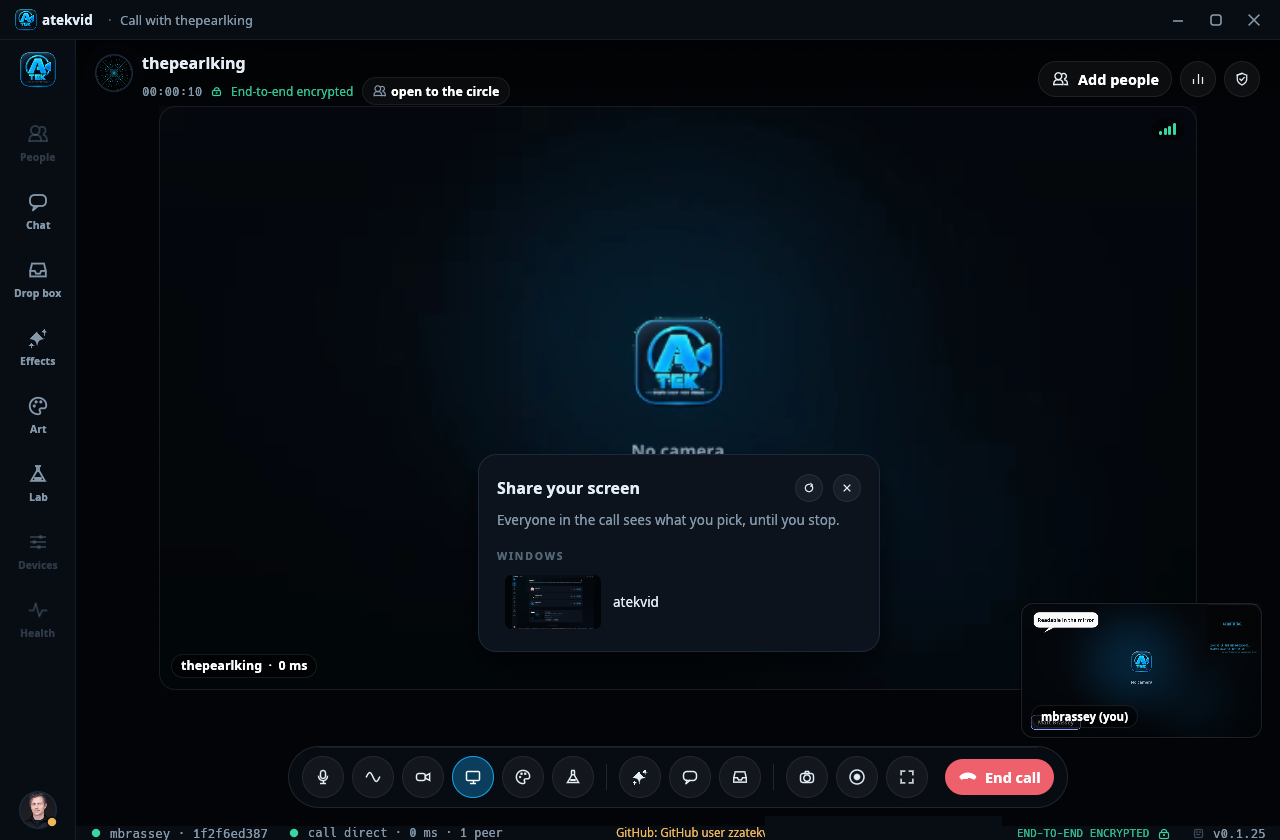
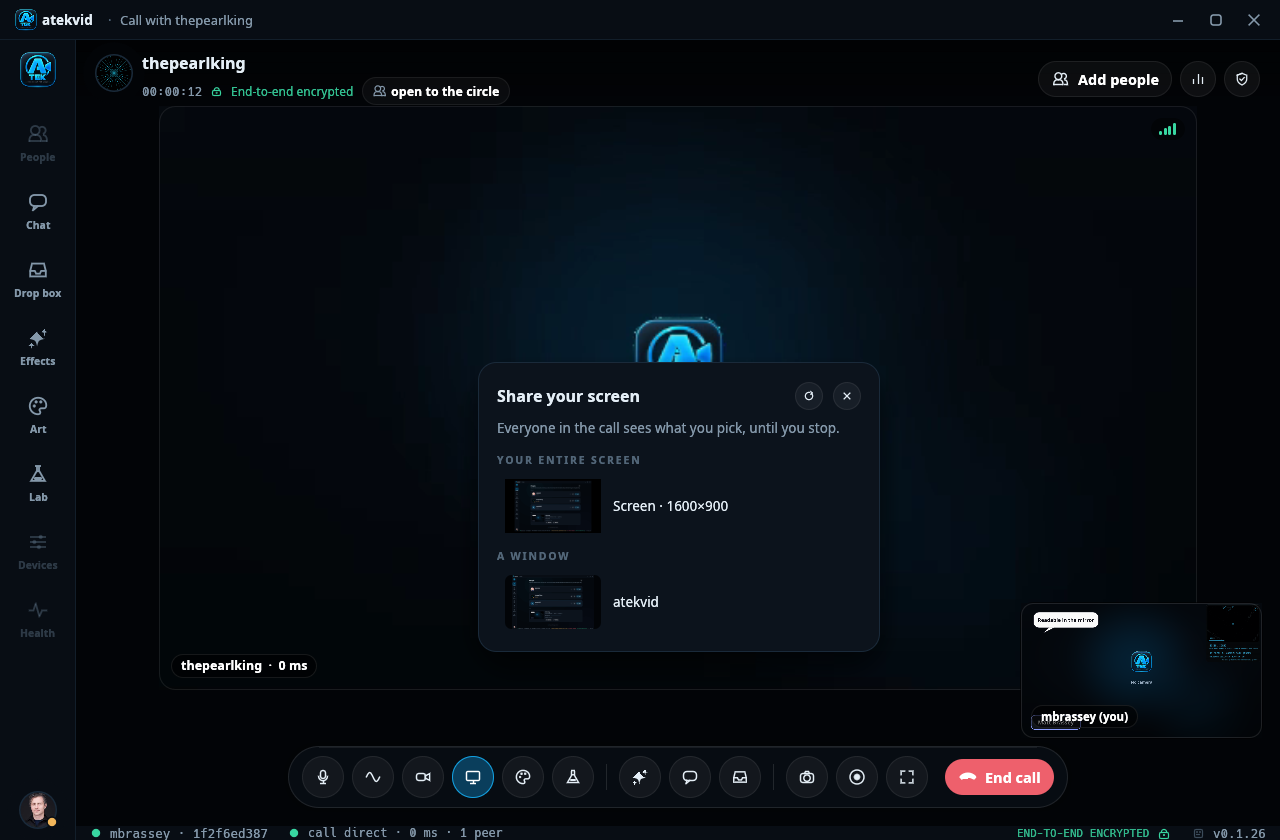
README for 0.1.26: the picker's screen and window sections, private calls kept out of sight, new screenshots
- Screen sharing: the entire screen and a single window each have their own
  section in the picker, with a picture of each on X11 and the desktop's own
  dialog on Wayland.
- Calls in the circle: a call is open only while everyone on it lets it be,
  and a private call is told only to the people in it and those they invite.
- Ringtones take AAC, Apple Lossless and more Ogg and WebM files; the
  installer's autostart is made once and --autostart brings it back;
  releases are built from a tag in Docker on Ubuntu 22.04.
- New screenshots of the share picker and of Happening now.

Changed region(s): [[0.375, 0.4333, 0.6562, 0.681], [0.4688, 0.9905, 0.5938, 1.0], [0.9375, 0.7429, 0.9688, 0.7738]]

diff --git a/README.md b/README.md
@@ -45,7 +45,7 @@ openSUSE, Void and Alpine (x86_64). The script:
 Prefer not to pipe from the network? Download the release archive, check the
 `.sig` and `.sha256`, extract, and run `./install.sh` from it. `install.sh
 --help` lists the options (`--prefix`, `--no-pin`, `--no-autostart`,
-`--uninstall`, …).
+`--autostart`, `--uninstall`, …).
 
 **Updating** happens by itself: the app checks these releases shortly after
 launch and every six hours, verifies the signature, installs the new binary
@@ -78,24 +78,24 @@ by hand.
 - **Calls you can see, and walk into.** When people in your circle are on a
   call, you know: the status bar says who, the People list shows it under
   *Happening now* and says who each person is with, and the tray menu lists
-  it. *Join* walks you straight in, no invitation needed. Anyone on the call
-  can make it private from the call's header; a private call still shows who
-  is in it, but nobody can walk in. People who arrive at the same moment
-  find each other on their own, so a call of four always ends up with
-  everyone connected to everyone. While a call is open, the people in it
-  show as small live pictures under *Happening now* (and when you rest on
-  the status bar's note), refreshed every couple of seconds, with no sound
-  and nothing shared but their camera; everyone in the call sees who is
-  looking in.
-- **Screen sharing.** Share a screen or a single window with everyone in the
-  call; several people can share at once. On Wayland the desktop's own picker
-  chooses what is shared (through the ScreenCast portal and PipeWire); on X11
-  any monitor or window is captured directly, pointer included, and the
-  picker shows a small picture of each screen and window so you see what you
-  are about to share. Shared
-  screens take the stage and the cameras move to a strip beside them. Each
-  share is its own end-to-end encrypted stream, up to 1600 px wide, tuned for
-  legible text.
+  it. *Join* walks you straight in, no invitation needed. A call is open to
+  the circle only while everyone on it lets it be: anyone can make it private
+  from the call's header, and a private call stays out of sight, told only to
+  the people in it and those they invite, and nobody walks in uninvited.
+  People who arrive at the same moment find each other on their own, so a
+  call of four always ends up with everyone connected to everyone. While a
+  call is open, the people in it show as small live pictures under
+  *Happening now* (and when you rest on the status bar's note), refreshed
+  every couple of seconds, with no sound and nothing shared but their camera;
+  everyone in the call sees who is looking in.
+- **Screen sharing.** Share your entire screen or a single window with
+  everyone in the call; several people can share at once. The picker has a
+  section for each: on X11 it lists every monitor and window with a small
+  picture of it, captured directly, pointer included; on Wayland *Choose a
+  screen…* and *Choose a window…* open the desktop's own dialog (the
+  ScreenCast portal, with PipeWire). Shared screens take the stage and the
+  cameras move to a strip beside them. Each share is its own end-to-end
+  encrypted stream, up to 1600 px wide, tuned for legible text.
 - **Art board.** Draw, paint and collage together, live. Twelve brushes
   (pen, marker, crayon, spray, rainbow, neon, and heart, star, sparkle,
   snowflake, confetti and bubble stamps) and an eraser; shapes with a fill;
@@ -153,7 +153,8 @@ by hand.
   the opening of Mozart's *Eine kleine Nachtmusik*, hip hop, trap, drum and
   bass, techno, EDM, dubstep, synthwave, chiptune and an alien theremin.
   Give everyone the same one or each person their own, or add your own
-  music (MP3, M4A, FLAC, OGG or WAV) from the file chooser or by dropping it
+  music (MP3, M4A, AAC, ALAC, FLAC, Ogg Vorbis, Opus or WAV) from the file
+  chooser or by dropping it
   on the Devices screen. A robot voice, made by atekvid too, says who is
   calling: after every third ring of a short ringtone, or over a long one
   while the music dips. Every choice has a listen button.
@@ -304,7 +305,8 @@ and Voice out put your voice through a rack, here the Robot voice.
 
 **Happening now.** A call between two people in the circle, with small live
 pictures of them and a way in from the People list, the status bar and the
-tray.
+tray. *Join* shows who you are joining until they take you in, and can be
+cancelled.
 
 <p align="center"><img src="docs/calls.png" width="820" alt="A call in the circle, ready to join"></p>
 
@@ -313,9 +315,9 @@ grip to resize it, to see your effects up close.
 
 <p align="center"><img src="docs/self-view.png" width="820" alt="A bigger self view in a call"></p>
 
-**Share a screen or a window.** The call bar's screen button opens the
-picker, with a small picture of each screen and window (on Wayland, the
-desktop's own dialog).
+**Share a screen or a window.** The call bar's screen button (or **X**) opens
+the picker: your entire screen in one section, a single window in the other,
+each with a small picture (on Wayland, the desktop's own dialog picks).
 
 <p align="center"><img src="docs/share-picker.png" width="820" alt="The share picker"></p>
 
@@ -457,14 +459,16 @@ or Wayland. Hiding to the tray destroys the window and recreates it on demand,
 because Wayland allows neither hiding nor restoring a window on request; the
 application state lives on regardless. The tray item speaks the
 StatusNotifierItem protocol over D-Bus (pure Rust, `ksni`); notifications use
-`org.freedesktop.Notifications`. The installer adds a `.desktop` entry and a
-login autostart entry (`atekvid --hidden`), and puts the `atekvid-screencast`
-helper next to the app.
+`org.freedesktop.Notifications`. The installer adds a `.desktop` entry and,
+once, a login autostart entry (`atekvid --hidden`): turned off in the
+desktop's startup settings it stays off, `--no-autostart` removes it and
+`--autostart` brings it back. It puts the `atekvid-screencast` helper next to
+the app.
 
 ### Releases and updates
 
-Releases are built on Ubuntu 22.04 by GitHub Actions in the private source
-repository and published here. The archive holds the app, the
+Releases are built from a tag of the private source repository, in Docker on
+Ubuntu 22.04 (glibc 2.35), and published here. The archive holds the app, the
 `atekvid-screencast` helper, the installer and the packaging files. Each archive is signed with the atekvid release
 key using OpenSSH signatures (`ssh-keygen -Y sign`, namespace
 `atekvid-release`); the public half is compiled into the app and written into
@@ -605,7 +609,7 @@ thepearlking = "dubstep"           # someone's own ringtone
 
 [ui]
 tray = true                        # keep running in the tray when the window closes
-open_calls = true                  # let the circle see your calls and walk in
+open_calls = true                  # let the circle see your calls and walk in (everyone on a call must)
 notifications = true
 show_stats = false
 
